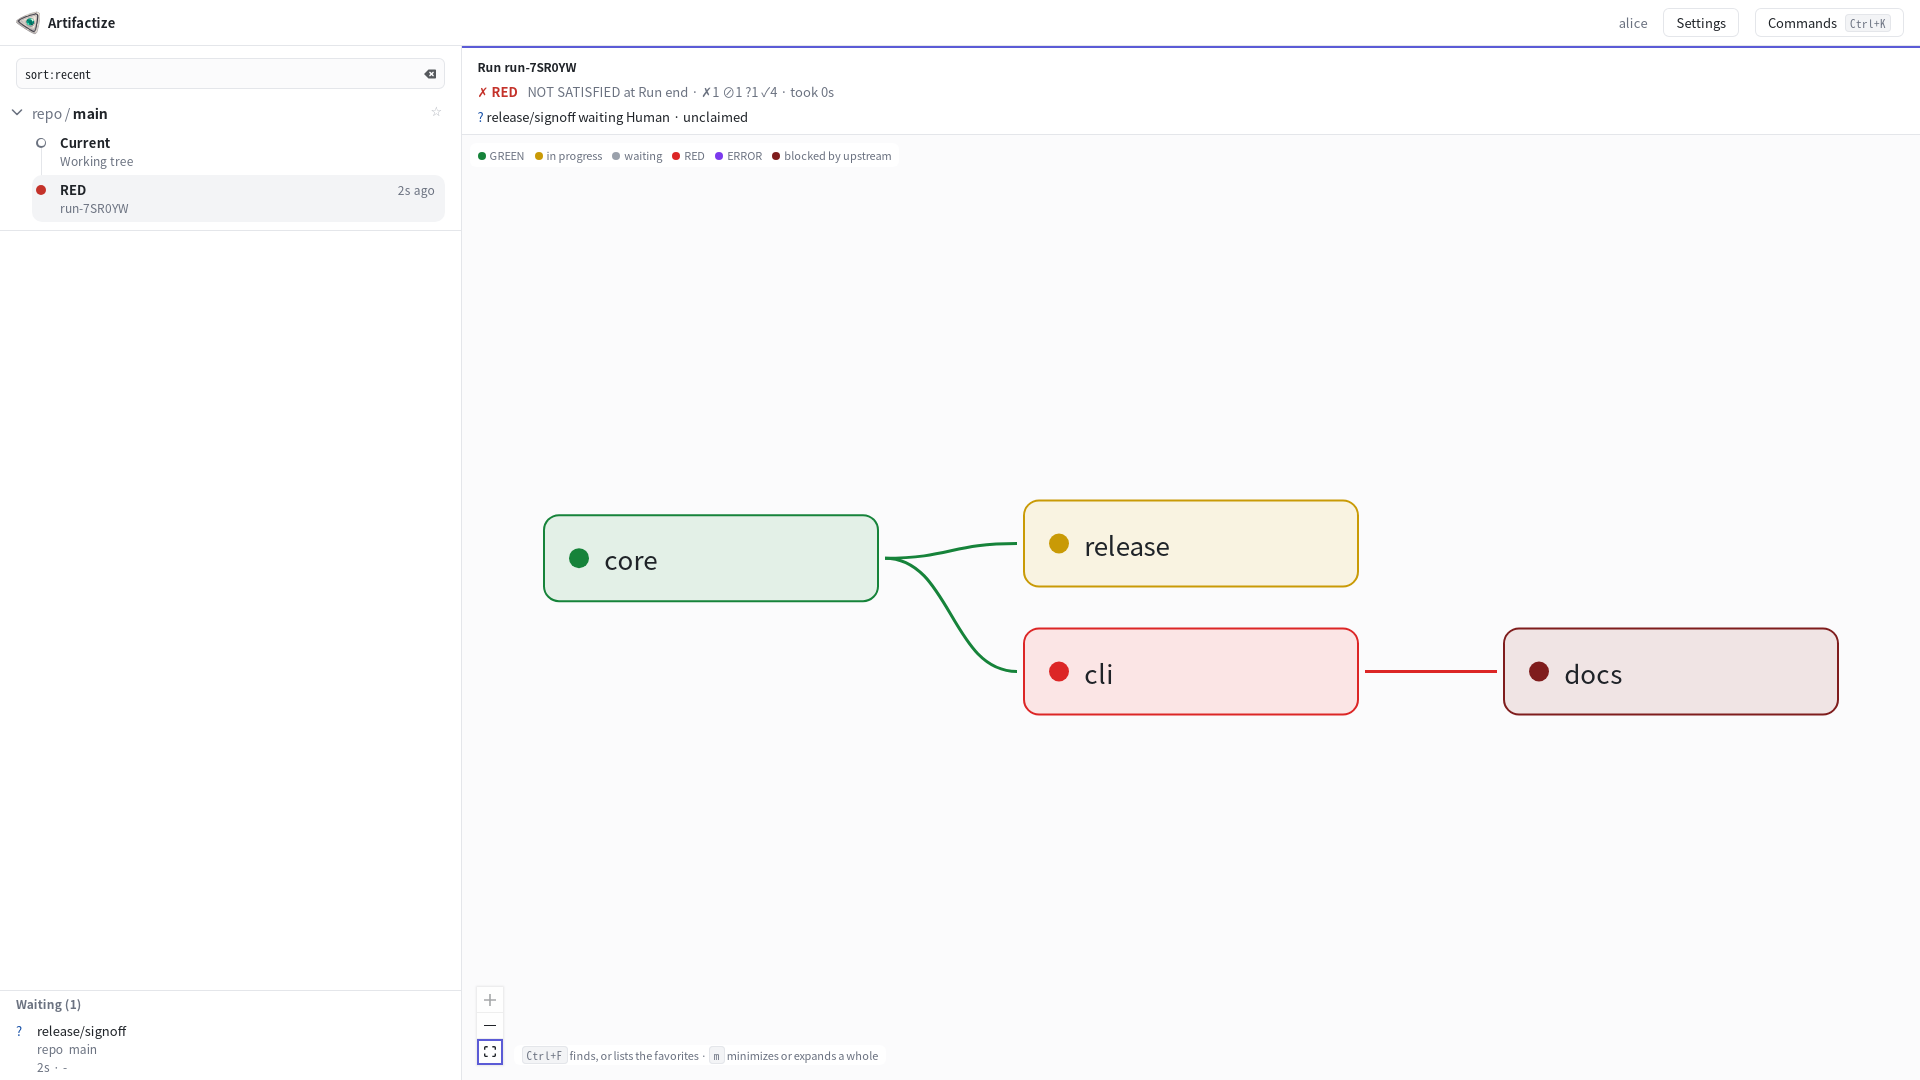
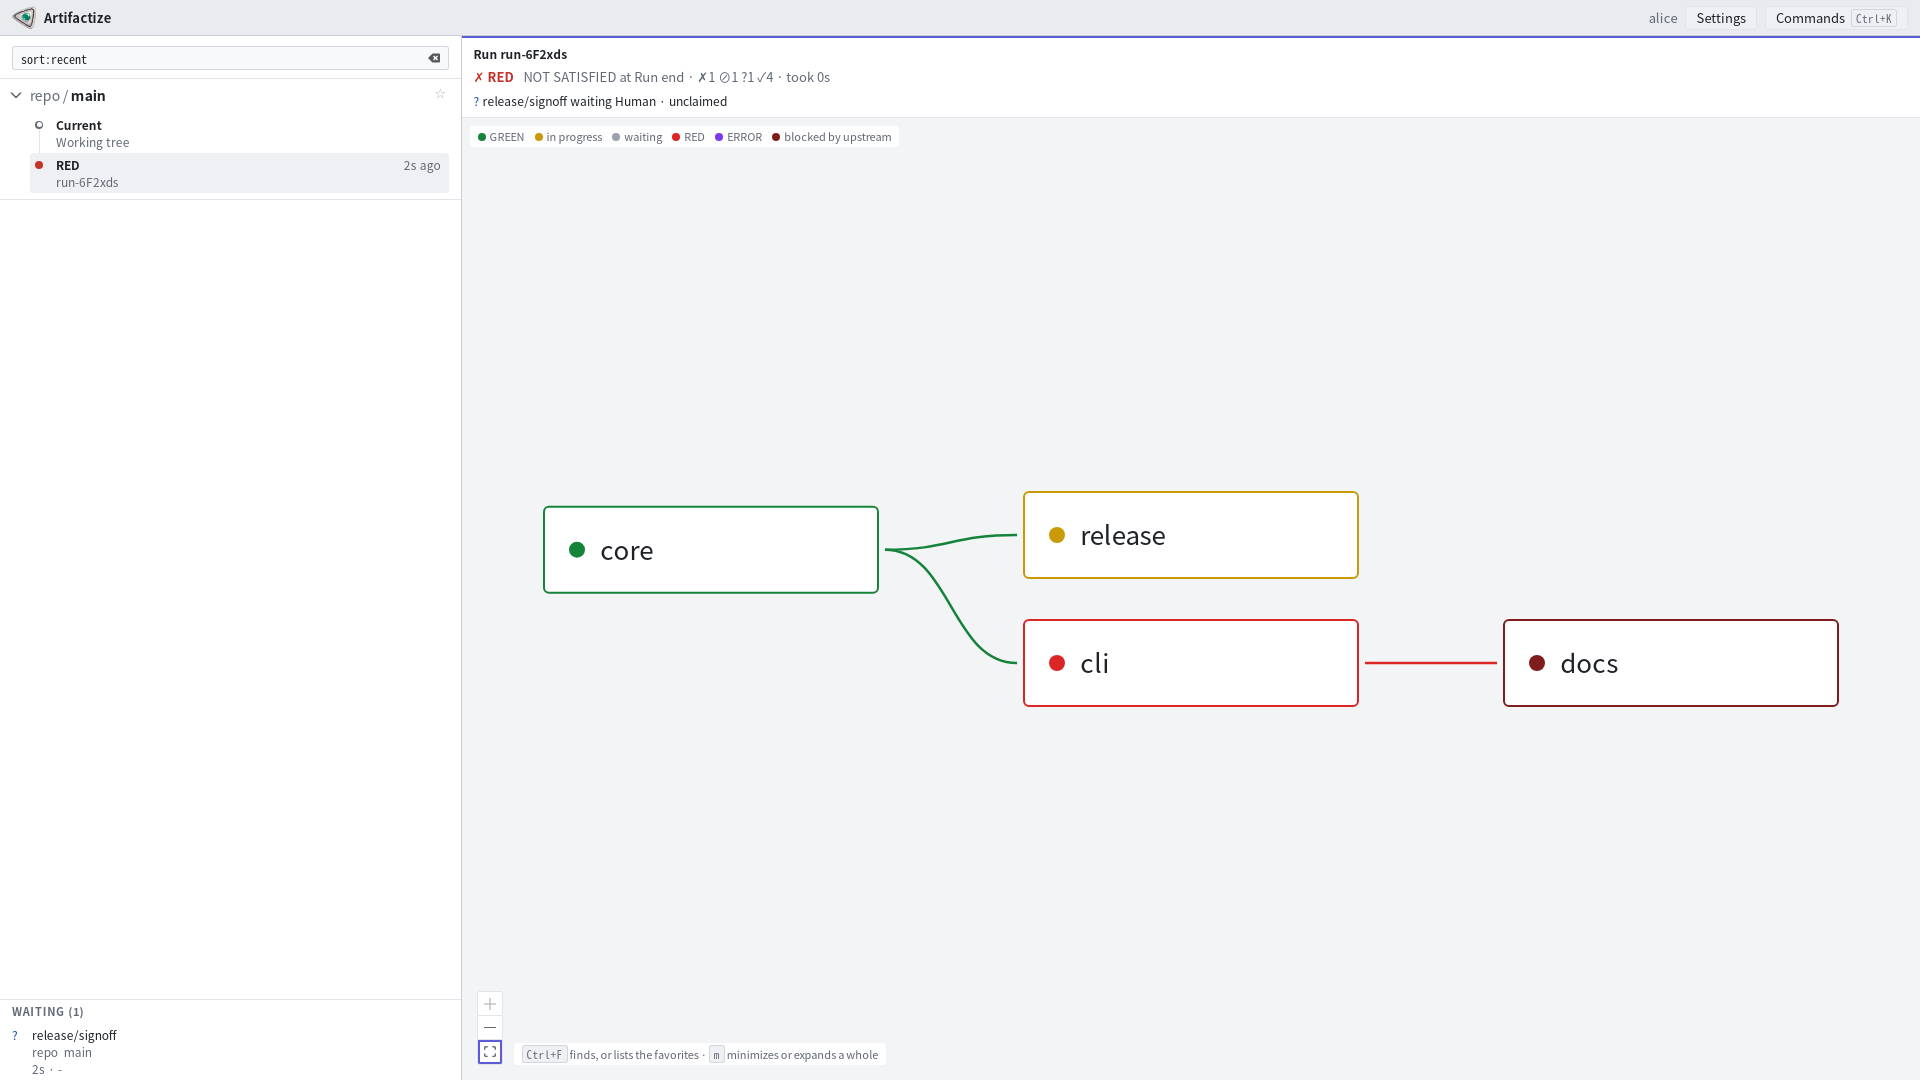
desktop design: place callouts clear of the figures; quiet Debug fold; README screenshots from the restyled app

diff --git a/crates/artifactize-desktop/design/monitor.html b/crates/artifactize-desktop/design/monitor.html
@@ -126,14 +126,14 @@
           <li class="light-error"><span class="m-swatch"></span>ERROR</li>
           <li class="light-blocked"><span class="m-swatch"></span>blocked by upstream</li>
         </ul>
-        <div class="m-edge light-green" style="left: 388px; top: 250px; width: 170px; transform: rotate(-22deg)"></div>
-        <div class="m-edge light-green" style="left: 388px; top: 250px; width: 170px; transform: rotate(22deg)"></div>
-        <div class="m-edge light-red" style="left: 716px; top: 314px; width: 92px"></div>
-        <div class="m-node light-green" style="left: 220px; top: 230px"><span class="m-dot"></span>core</div>
-        <div class="m-node light-active" style="left: 548px; top: 166px"><span class="m-dot"></span>release</div>
-        <div class="m-node light-red hovered" style="left: 548px; top: 294px"><span class="m-dot"></span>cli</div>
-        <div class="m-node light-blocked" style="left: 808px; top: 294px"><span class="m-dot"></span>docs</div>
-        <div class="m-whole light-green" style="left: 220px; top: 420px; width: 496px; height: 150px">
+        <div class="m-edge light-green" style="left: 328px; top: 250px; width: 170px; transform: rotate(-22deg)"></div>
+        <div class="m-edge light-green" style="left: 328px; top: 250px; width: 170px; transform: rotate(22deg)"></div>
+        <div class="m-edge light-red" style="left: 656px; top: 314px; width: 92px"></div>
+        <div class="m-node light-green" style="left: 160px; top: 230px"><span class="m-dot"></span>core</div>
+        <div class="m-node light-active" style="left: 488px; top: 166px"><span class="m-dot"></span>release</div>
+        <div class="m-node light-red hovered" style="left: 488px; top: 294px"><span class="m-dot"></span>cli</div>
+        <div class="m-node light-blocked" style="left: 748px; top: 294px"><span class="m-dot"></span>docs</div>
+        <div class="m-whole light-green" style="left: 160px; top: 420px; width: 496px; height: 150px">
           <div class="m-whole-title"><span class="m-dot"></span>desktop<span class="m-toggle">−</span></div>
           <div class="m-node light-green" style="left: 24px; top: 40px"><span class="m-dot"></span>desktop-backend</div>
           <div class="m-node light-green" style="left: 24px; top: 92px"><span class="m-dot"></span>desktop-ui</div>
@@ -146,14 +146,14 @@
   </div>
 </div>
 <span class="callout" style="left: 12px; top: 8px">1</span>
-<span class="callout" style="left: 250px; top: 56px">2</span>
-<span class="callout" style="left: 250px; top: 110px">3</span>
-<span class="callout" style="left: 250px; top: 640px">4</span>
-<span class="callout" style="left: 300px; top: 56px">5</span>
-<span class="callout" style="left: 300px; top: 100px">6</span>
-<span class="callout" style="left: 420px; top: 452px">7</span>
-<span class="callout" style="left: 760px; top: 480px">8</span>
-<span class="callout" style="left: 310px; top: 740px">9</span>
+<span class="callout" style="left: 244px; top: 44px">2</span>
+<span class="callout" style="left: 200px; top: 108px">3</span>
+<span class="callout" style="left: 200px; top: 646px">4</span>
+<span class="callout" style="left: 470px; top: 46px">5</span>
+<span class="callout" style="left: 740px; top: 76px">6</span>
+<span class="callout" style="left: 420px; top: 480px">7</span>
+<span class="callout" style="left: 700px; top: 660px">8</span>
+<span class="callout" style="left: 330px; top: 700px">9</span>
 </div>
 <figcaption>Stage 1280 × 800. Dark scheme; the light scheme keeps every role and step.</figcaption>
 </figure>

diff --git a/crates/artifactize-desktop/design/review.html b/crates/artifactize-desktop/design/review.html
@@ -97,11 +97,11 @@
     </section>
   </div>
 </div>
-<span class="callout" style="left: 300px; top: 92px">1</span>
-<span class="callout" style="left: 300px; top: 232px">2</span>
-<span class="callout" style="left: 300px; top: 348px">3</span>
-<span class="callout" style="left: 300px; top: 486px">4</span>
-<span class="callout" style="left: 300px; top: 560px">5</span>
+<span class="callout" style="left: 820px; top: 92px">1</span>
+<span class="callout" style="left: 560px; top: 232px">2</span>
+<span class="callout" style="left: 1130px; top: 352px">3</span>
+<span class="callout" style="left: 440px; top: 486px">4</span>
+<span class="callout" style="left: 470px; top: 668px">5</span>
 </div>
 <figcaption>Stage 1280 × 800. A claimed review with one tool run and the GREEN form open.</figcaption>
 </figure>

diff --git a/crates/artifactize-desktop/design/detail.html b/crates/artifactize-desktop/design/detail.html
@@ -129,7 +129,7 @@
 <span class="callout" style="left: 840px; top: 136px">3</span>
 <span class="callout" style="left: 840px; top: 200px">4</span>
 <span class="callout" style="left: 840px; top: 292px">5</span>
-<span class="callout" style="left: 840px; top: 390px">6</span>
+<span class="callout" style="left: 1130px; top: 392px">6</span>
 </div>
 <figcaption>Stage 1280 × 800. The Artifact's tab: neighbours, evals, Tools, Tool log, path, Debug.</figcaption>
 </figure>
@@ -144,7 +144,7 @@
 </ol>
 
 <figure class="figure">
-<div class="stage" style="--w: 520; --h: 560">
+<div class="stage" style="--w: 520; --h: 560; max-width: 540px">
 <div class="stage-inner">
 <div class="m-window" style="background: var(--surface-app)">
   <div style="position: absolute; inset: 0">

diff --git a/crates/artifactize-desktop/design/settings.html b/crates/artifactize-desktop/design/settings.html
@@ -87,10 +87,10 @@
     </div>
   </div>
 </div>
-<span class="callout" style="left: 200px; top: 100px">1</span>
-<span class="callout" style="left: 420px; top: 100px">2</span>
-<span class="callout" style="left: 200px; top: 190px">3</span>
-<span class="callout" style="left: 440px; top: 190px">4</span>
+<span class="callout" style="left: 150px; top: 120px">1</span>
+<span class="callout" style="left: 560px; top: 96px">2</span>
+<span class="callout" style="left: 150px; top: 200px">3</span>
+<span class="callout" style="left: 1140px; top: 190px">4</span>
 </div>
 <figcaption>Stage 1280 × 800. The Providers tab with Claude Agent chosen.</figcaption>
 </figure>

diff --git a/crates/artifactize-desktop/design/current.html b/crates/artifactize-desktop/design/current.html
@@ -109,9 +109,9 @@ cli  ← core
     </section>
   </div>
 </div>
-<span class="callout" style="left: 300px; top: 92px">1</span>
+<span class="callout" style="left: 520px; top: 86px">1</span>
 <span class="callout" style="left: 560px; top: 240px">2</span>
-<span class="callout" style="left: 300px; top: 600px">3</span>
+<span class="callout" style="left: 700px; top: 606px">3</span>
 </div>
 <figcaption>Stage 1280 × 800. The Current's lights differ from a Run's: reused, would run, waiting, blocked, checking.</figcaption>
 </figure>

diff --git a/crates/artifactize-desktop/ui/src/monitor/RecordDetail.svelte b/crates/artifactize-desktop/ui/src/monitor/RecordDetail.svelte
@@ -286,12 +286,16 @@
     text-transform: uppercase;
     color: var(--ink-2);
   }
+  /* The fold reads as a quiet line, not a label. */
   .fold {
     border: 0;
     background: none;
     padding: 0;
     cursor: pointer;
     font-family: inherit;
+    font-size: var(--text-small);
+    letter-spacing: 0;
+    text-transform: none;
   }
   .key,
   .muted {
